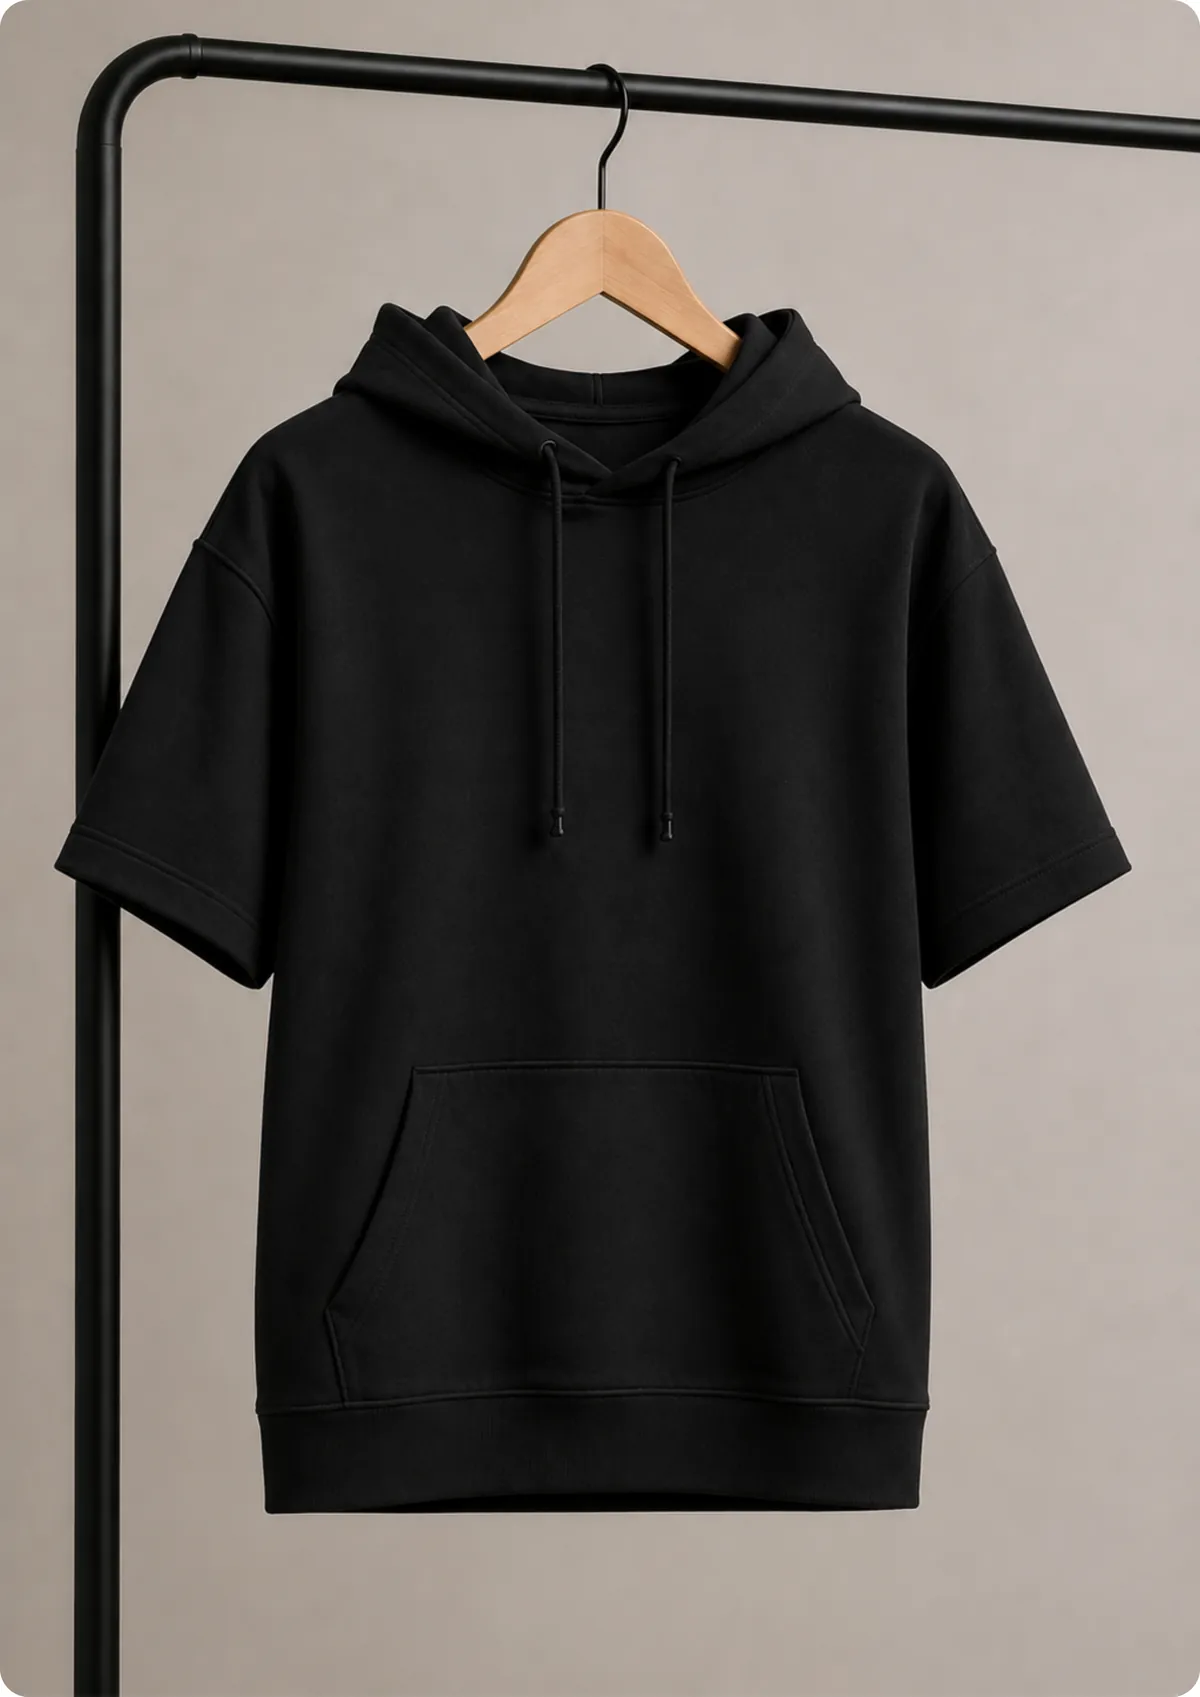
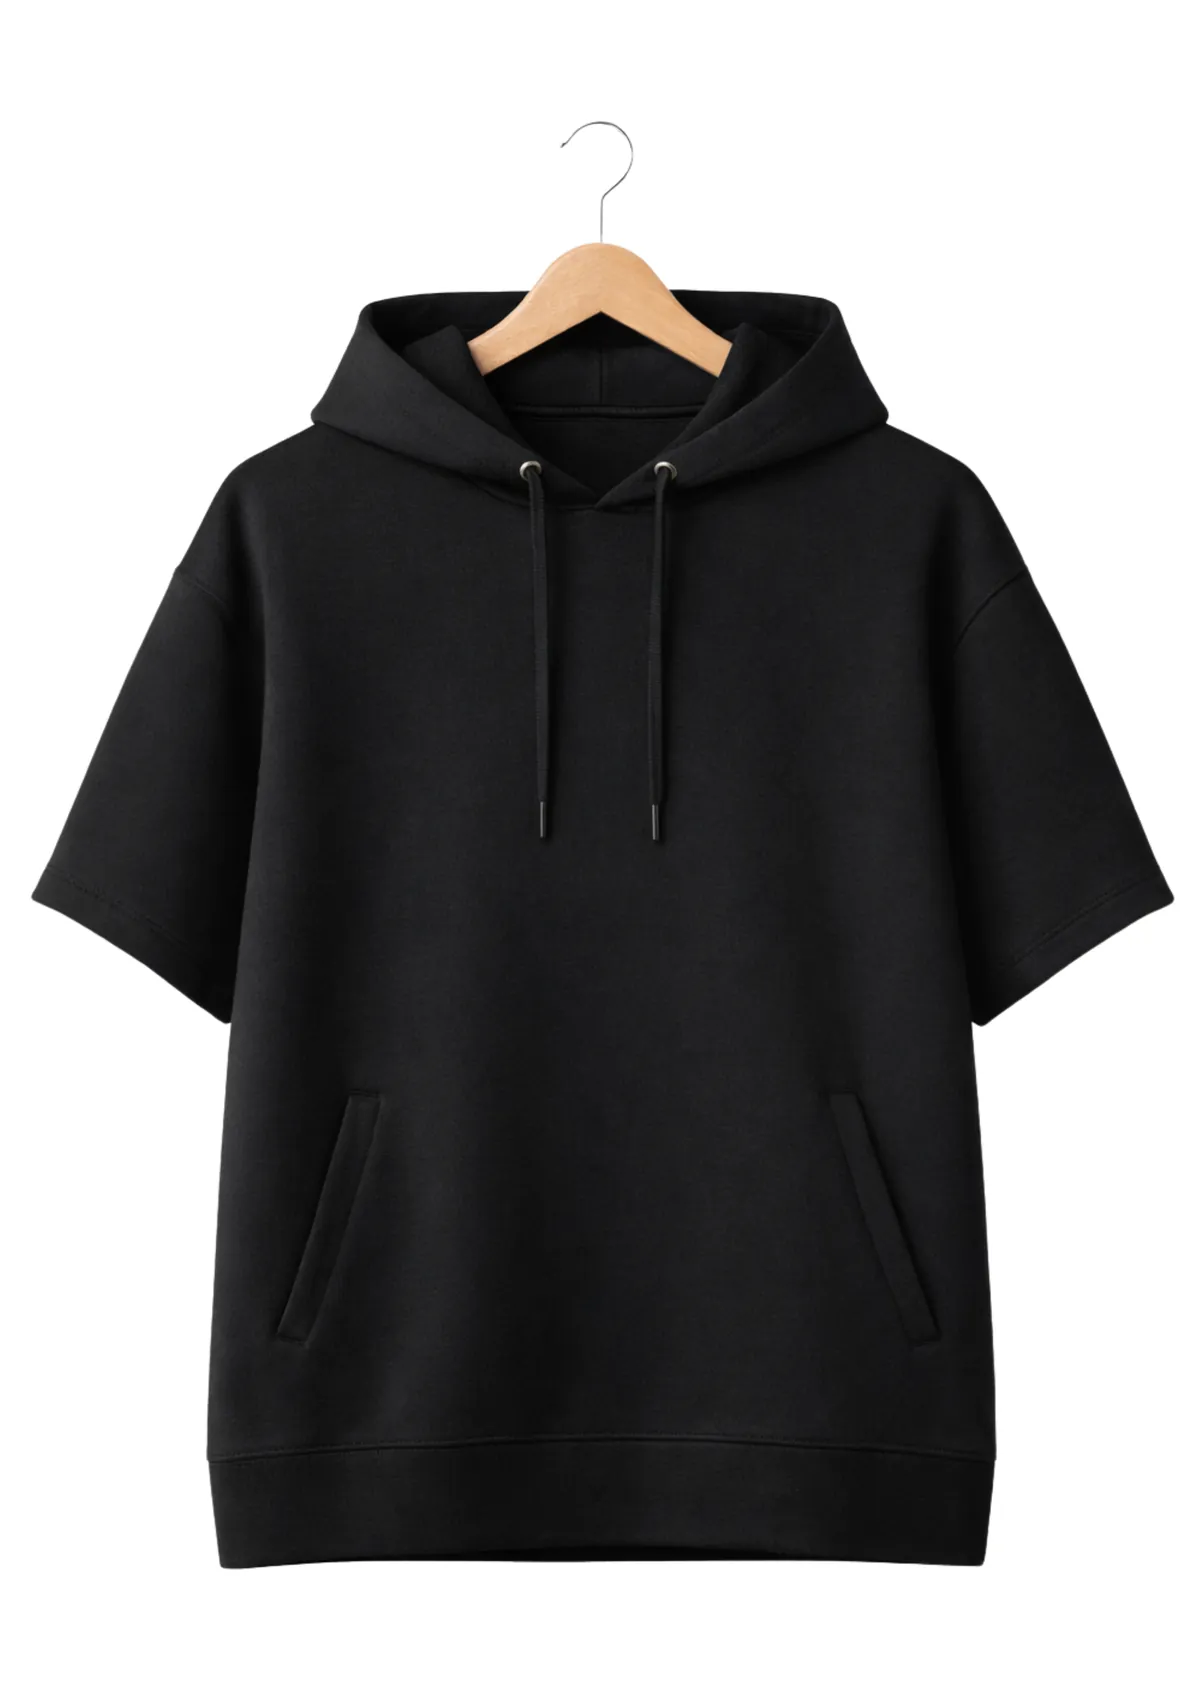
Гібрид худі: оновлені фото (_upd) і нова підкладка орієнтовного вигляду
Замінено 5 кадрів галереї: чорний ladyfront/nopeople, слонова кістка
ladyfront/manfront/nopeople. Нові nopeople (чорний і слонова кістка) стали
підкладкою garments-preview для накладення принтів.

Нові фото кадровані інакше (річ більша й нижча), тож рамки принта для
hibryd-hudi перенесено на новий кадр: якір — середина люверсів шнурків,
масштаб 1.1 (за шириною корпусу й відстанню люверси→низ). Перевірено
композитами на Шпіці (паб), Французі (поло) і Семюелі Джексоні.
Кеш print-placements.json оновлено тими самими числами, щоб наступний
прогін placements їх не відкотив.

Claude-Session: https://claude.ai/code/session_016kbGx6qkCeYbrYEZJq1LeU

diff --git a/apps/web/src/features/catalog/print-placement.generated.ts b/apps/web/src/features/catalog/print-placement.generated.ts
@@ -8,7 +8,7 @@ export const COLLECTION_PLACEMENTS: Readonly<Record<string, Readonly<Record<stri
     'futbolka-klasychna': { cx: 0.4989, cy: 0.3551, w: 0.2532, h: 0.2532, rot: 0.0114 },
     'futbolka-oversayz-cholovicha': { cx: 0.5700, cy: 0.3372, w: 0.2682, h: 0.1896, rot: 14.9922 },
     'futbolka-oversayz-zhinocha': { cx: 0.5210, cy: 0.4499, w: 0.2512, h: 0.1777, rot: -0.0048 },
-    'hibryd-hudi': { cx: 0.5116, cy: 0.4177, w: 0.2682, h: 0.1897, rot: 0.0178 },
+    'hibryd-hudi': { cx: 0.4993, cy: 0.4430, w: 0.2950, h: 0.2087, rot: 0.0178 },
     'hibryd-svitshot': { cx: 0.5433, cy: 0.3085, w: 0.2683, h: 0.1897, rot: 14.9877 },
     'hudi-klasychnyi': { cx: 0.6001, cy: 0.4610, w: 0.1898, h: 0.1342, rot: 0.0128 },
     'svitshot-klasychnyi': { cx: 0.6686, cy: 0.4567, w: 0.1897, h: 0.1342, rot: 0.0017 },
@@ -17,7 +17,7 @@ export const COLLECTION_PLACEMENTS: Readonly<Record<string, Readonly<Record<stri
     'futbolka-klasychna': { cx: 0.5069, cy: 0.4029, w: 0.3045, h: 0.3560, rot: 0.0026 },
     'futbolka-oversayz-cholovicha': { cx: 0.5617, cy: 0.3726, w: 0.3226, h: 0.2666, rot: 13.7516 },
     'futbolka-oversayz-zhinocha': { cx: 0.5246, cy: 0.5018, w: 0.3226, h: 0.2666, rot: -0.0064 },
-    'hibryd-hudi': { cx: 0.5121, cy: 0.4617, w: 0.3224, h: 0.2665, rot: 0.0122 },
+    'hibryd-hudi': { cx: 0.4998, cy: 0.4914, w: 0.3546, h: 0.2932, rot: 0.0122 },
     'hibryd-svitshot': { cx: 0.5302, cy: 0.3427, w: 0.3225, h: 0.2666, rot: 14.0003 },
     'hudi-klasychnyi': { cx: 0.6009, cy: 0.4854, w: 0.2003, h: 0.1655, rot: -0.0330 },
     'svitshot-klasychnyi': { cx: 0.6664, cy: 0.4721, w: 0.2178, h: 0.1800, rot: 0.0107 },
@@ -30,7 +30,7 @@ export const PRINT_PLACEMENTS: Readonly<Record<string, Readonly<Record<string, P
     'futbolka-klasychna': { cx: 0.4992, cy: 0.4208, w: 0.2782, h: 0.4071, rot: -0.0420 },
     'futbolka-oversayz-cholovicha': { cx: 0.5534, cy: 0.3974, w: 0.2947, h: 0.3049, rot: 14.8427 },
     'futbolka-oversayz-zhinocha': { cx: 0.5247, cy: 0.5006, w: 0.2532, h: 0.2620, rot: -0.0209 },
-    'hibryd-hudi': { cx: 0.4992, cy: 0.4575, w: 0.2625, h: 0.2717, rot: 0.0033 },
+    'hibryd-hudi': { cx: 0.4856, cy: 0.4868, w: 0.2888, h: 0.2989, rot: 0.0033 },
     'hibryd-svitshot': { cx: 0.5315, cy: 0.3621, w: 0.2947, h: 0.3050, rot: 14.1824 },
     'hudi-klasychnyi': { cx: 0.6050, cy: 0.4844, w: 0.1832, h: 0.1896, rot: 0.0066 },
     'svitshot-klasychnyi': { cx: 0.6616, cy: 0.4820, w: 0.1999, h: 0.2069, rot: -0.0645 },
